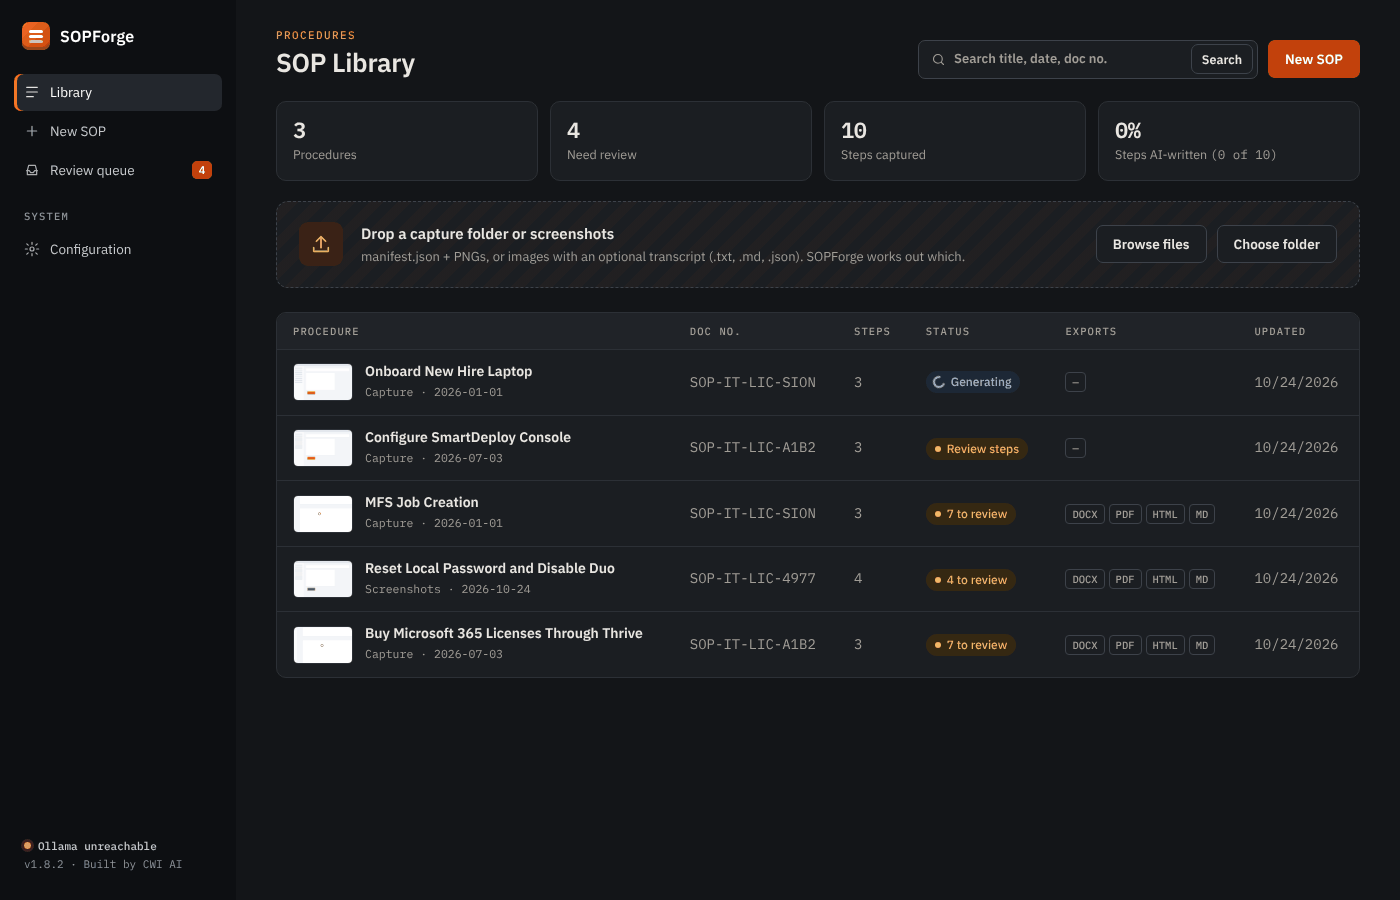
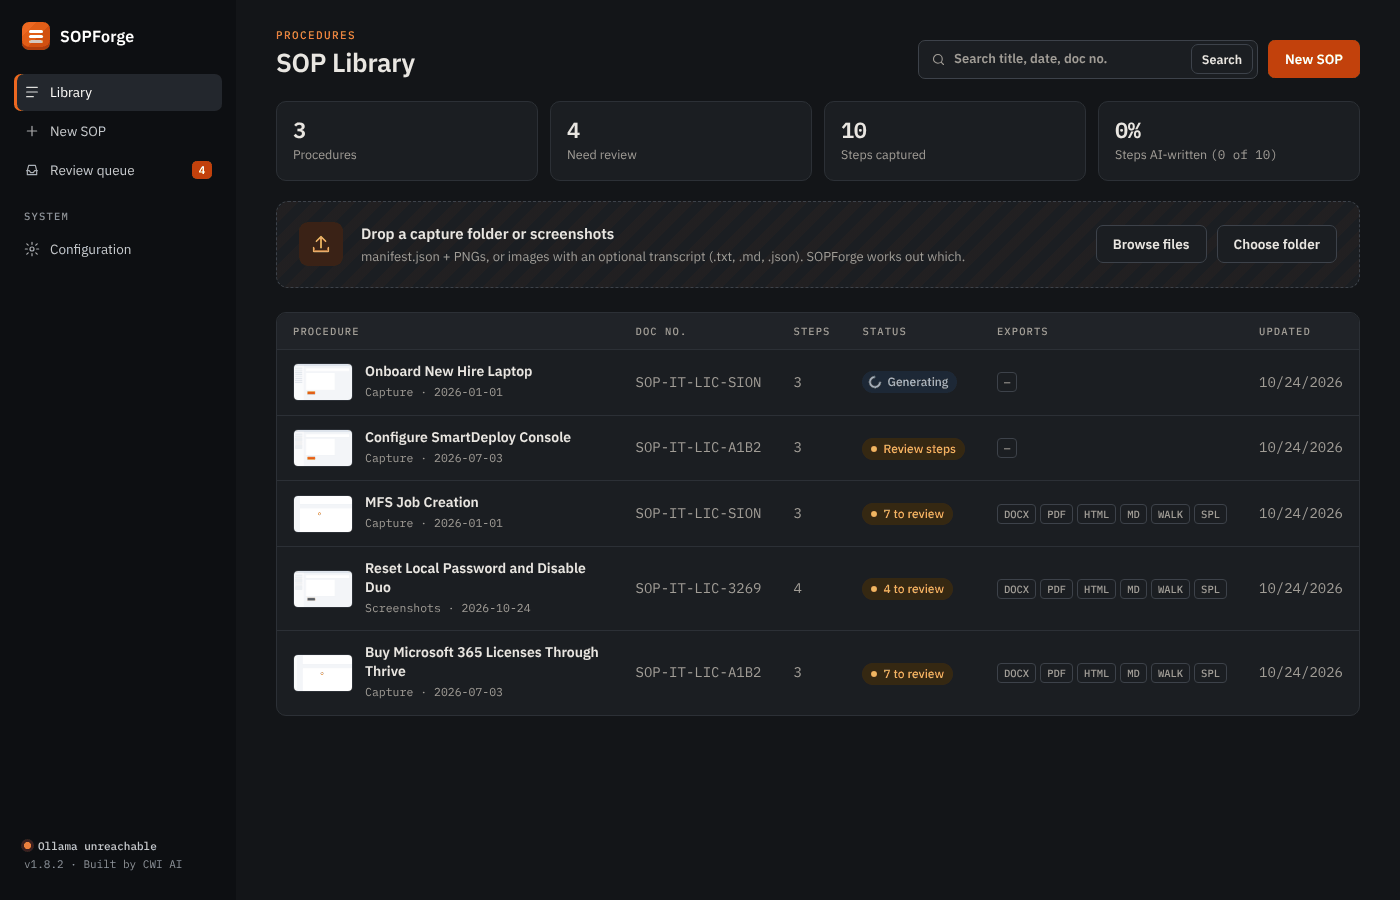
phase-06/task-17: refresh 6h screenshots; keep export chips on one line
Re-shoots every page in light and dark at the current head (full-page, so
the session page's Document details, Phases, Values-not-captured and
walkthrough/SPL downloads are visible). With six export chips the Exports
cell wrapped to two lines; .fmt no longer wraps.

Claude-Session: https://claude.ai/code/session_01UP6NmoGE5VXqxpSKSwJajb

diff --git a/src/pipeline/webui/pages.py b/src/pipeline/webui/pages.py
@@ -217,7 +217,7 @@ object-fit:cover;object-position:top left;display:block}
 .proc a:hover{color:var(--link)}
 .proc small{font:11.5px var(--mono)}
 td.num{font-family:var(--mono);color:var(--muted);white-space:nowrap}
-.fmt{display:flex;gap:4px;flex-wrap:wrap}
+.fmt{display:flex;gap:4px;flex-wrap:nowrap}
 .fmt a,.fmt span{font:500 10.5px/16px var(--mono);padding:1px 6px;border:1px solid var(--border-2);
 border-radius:4px;color:var(--muted)}
 .fmt a:hover{color:var(--link);border-color:var(--link);text-decoration:none}

diff --git a/phases/06-results.md b/phases/06-results.md
@@ -166,7 +166,7 @@ steps review, processing, session/review, configuration) on the Forge chrome:
 graphite sidebar (Library, New SOP, Review queue + count, Configuration; LLM
 status + version in the footer), warm off-white surface, ember accent, IBM
 Plex Sans + Mono, light + dark via `prefers-color-scheme`. Screenshots of each
-page in both themes: `phases/06-screenshots/6h/`.
+page in both themes (full-page captures, refreshed at the PR's final head): `phases/06-screenshots/6h/`.
 
 - **Fonts**: `assets/fonts/ibm-plex/` (5 Sans + 3 Mono WOFF2 from npm
   `@ibm/plex-sans@1.1.0` / `@ibm/plex-mono@2.5.0`, OFL `LICENSE`, README with
